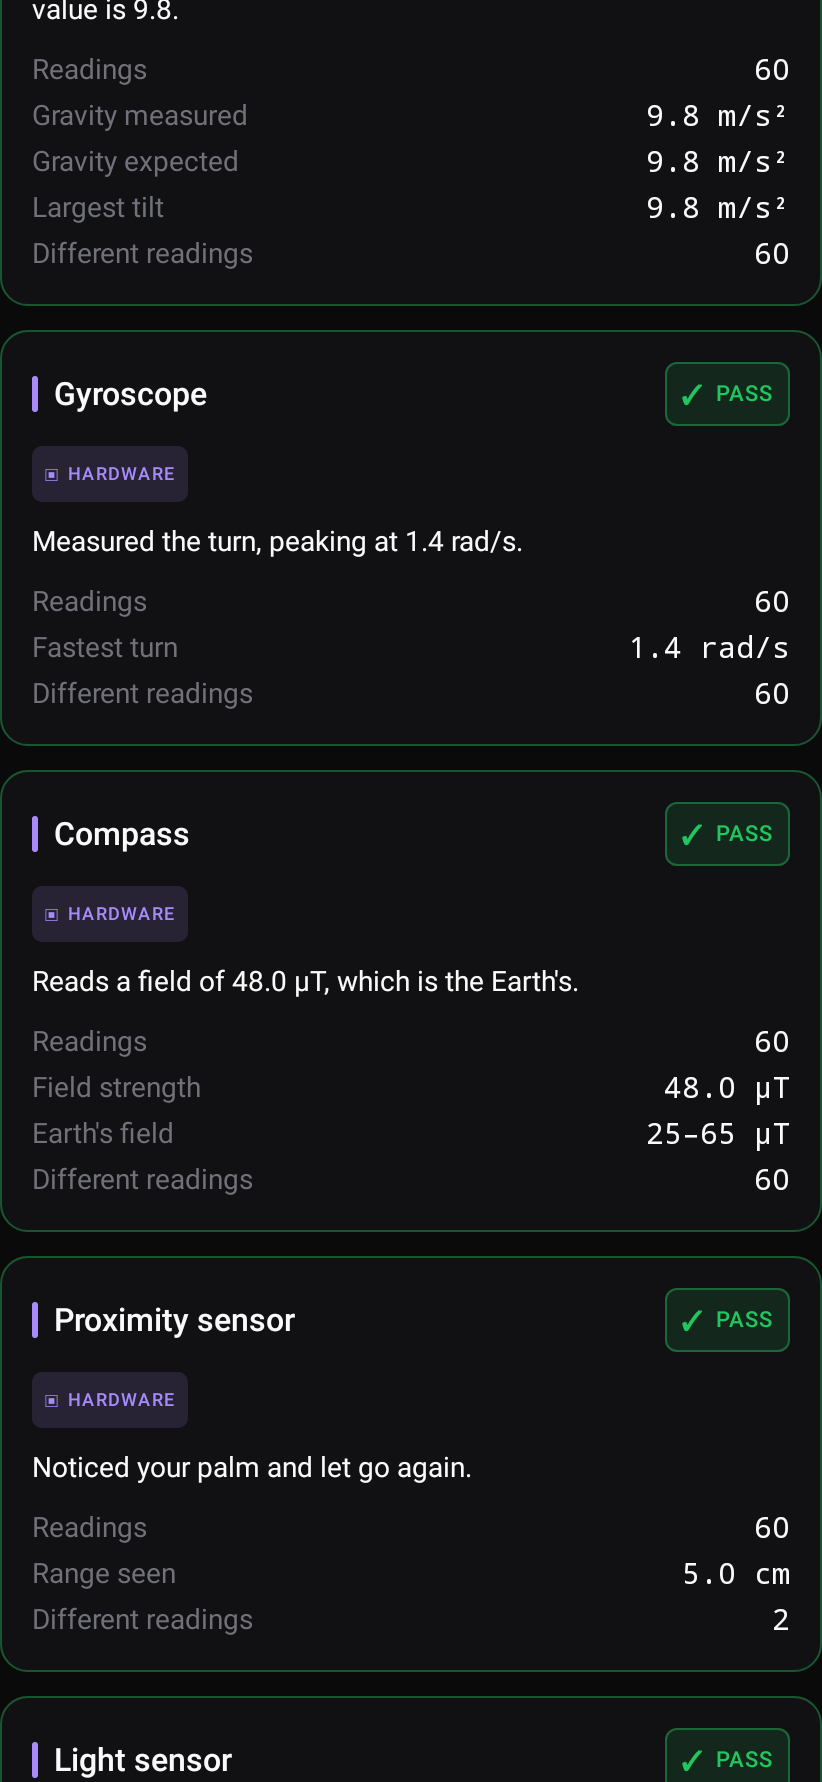
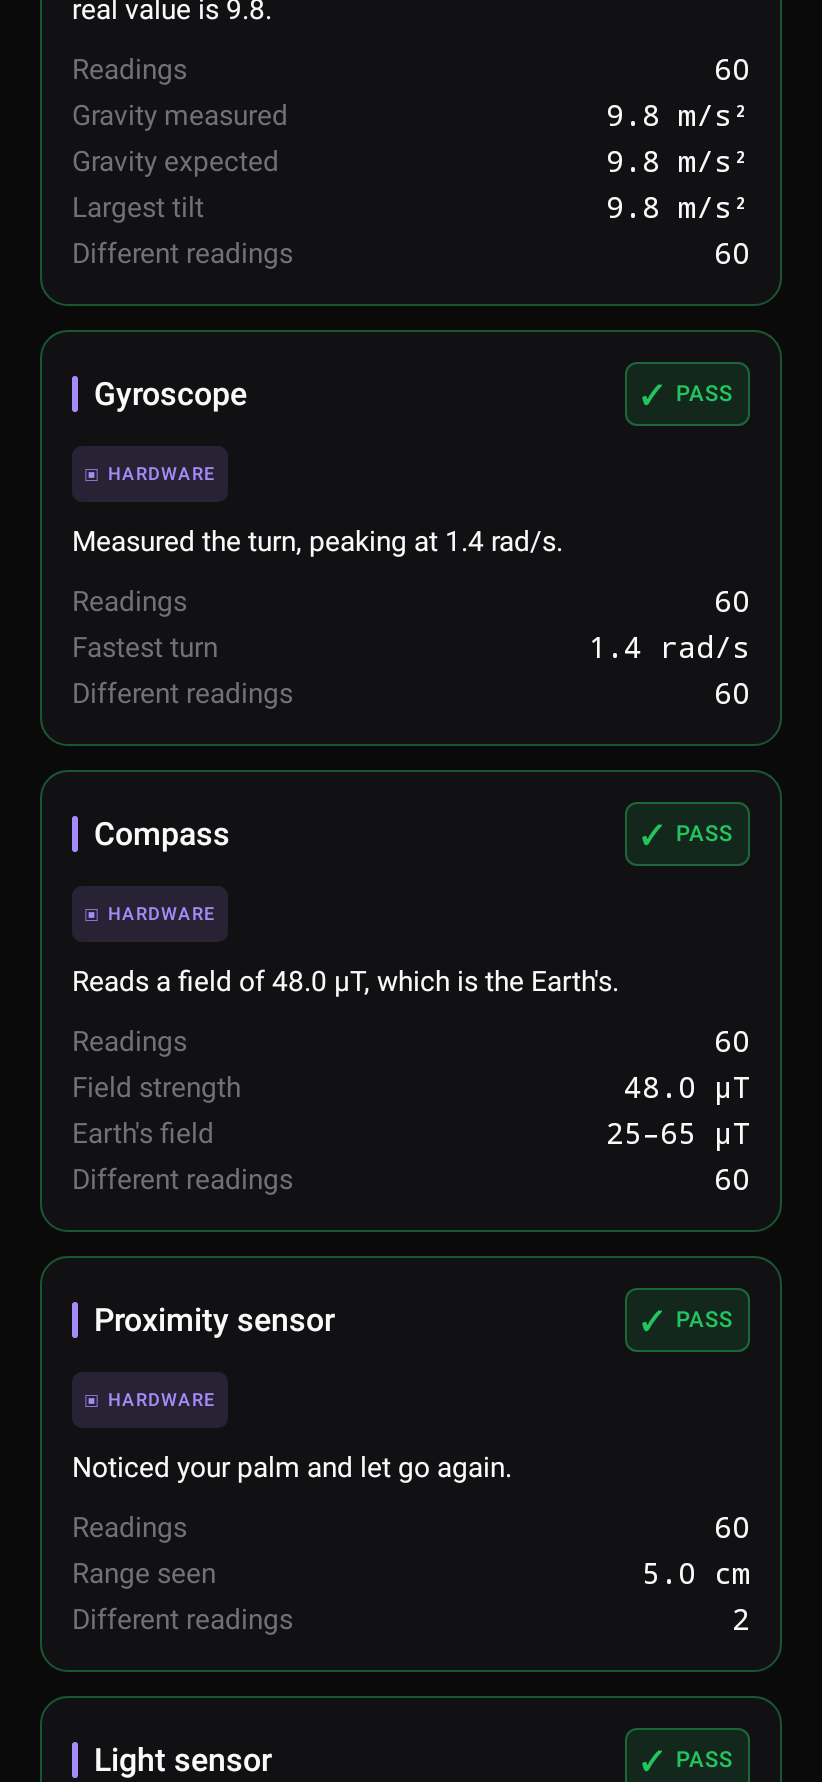
Centre the gesture screens, and split the two kinds of cannot-tell
Three things the renders showed.

The tilt and cover screens hold one instruction and two meters, and had them
huddled at the top above two thirds of empty black. They are centred now and do
not scroll, because the buyer is holding the phone up and looking at the middle
of it.

'Not exercised' was covering two different situations with one sentence: the
buyer not performing the gesture, and the app failing to subscribe to the sensor
at all. Telling someone to tilt their phone again when the fault was ours is
blaming them for our bug, so the second is now its own state with its own words.

And the accelerometer's cannot-tell admits what it does know. Lying still and
reading 9.8 m/s proves its calibration even when nobody tilted it, and the old
line threw that away — while reading word for word identical to the gyroscope
card stacked directly beneath it.

diff --git a/checks/sensors/src/main/kotlin/com/phoneproof/checks/sensors/SensorCheck.kt b/checks/sensors/src/main/kotlin/com/phoneproof/checks/sensors/SensorCheck.kt
@@ -36,12 +36,23 @@ object SensorCheck {
                 measurements = measurements,
             )
 
+            SensorState.UNAVAILABLE -> CheckResult(
+                id = idFor(kind),
+                title = title(kind),
+                outcome = CheckOutcome.UNKNOWN,
+                confidence = Confidence.LOW,
+                headline = "This app could not connect to the ${plainName(kind)}. That is a gap in " +
+                    "the report rather than anything known about the phone.",
+                action = "Close the app, open it again and re-run this test.",
+                measurements = measurements,
+            )
+
             SensorState.NOT_EXERCISED -> CheckResult(
                 id = idFor(kind),
                 title = title(kind),
                 outcome = CheckOutcome.UNKNOWN,
                 confidence = Confidence.LOW,
-                headline = notExercisedHeadline(kind),
+                headline = notExercisedHeadline(kind, s),
                 // An action even though nothing is wrong: the buyer can fix this one themselves in
                 // five seconds, and a "can't tell" they could have prevented is worth saying so.
                 action = when (kind) {
@@ -243,13 +254,29 @@ object SensorCheck {
         else -> "Reported a value outside anything physically sensible."
     }
 
-    private fun notExercisedHeadline(kind: SensorKind): String = when (kind) {
-        SensorKind.PROXIMITY, SensorKind.LIGHT ->
-            "Nothing to report: the top of the screen was never covered, so there was nothing for " +
-                "this sensor to react to."
-        else ->
-            "Nothing to report: the phone was not moved far enough for this sensor to have " +
-                "anything to measure."
+    /**
+     * One sentence per sensor, and not one shared sentence.
+     *
+     * The first version used the same line for the accelerometer and the gyroscope, and the render put
+     * the two cards one above the other reading word for word the same — which makes an honest result
+     * look like an unfilled template. Each of these now says what specifically did not happen, and the
+     * accelerometer's admits what it *does* know, because gravity proved its calibration even though
+     * nobody tilted it.
+     */
+    private fun notExercisedHeadline(kind: SensorKind, s: TraceStats): String = when (kind) {
+        SensorKind.ACCELEROMETER ->
+            "It reads gravity correctly at ${oneDecimal(s.magnitudeMean)} m/s², so it is calibrated " +
+                "— but the phone was not tilted far enough to see whether it follows movement."
+        SensorKind.GYROSCOPE ->
+            "The phone was never turned, so there was no rotation for this sensor to have missed."
+        SensorKind.MAGNETOMETER ->
+            "The compass reported nothing worth judging, and the phone was not turned enough to " +
+                "press it."
+        SensorKind.PROXIMITY ->
+            "Your hand never reached the sensor, so it had nothing to detect. The light sensor " +
+                "agrees it stayed light up there."
+        SensorKind.LIGHT ->
+            "The top of the screen never went dark, so this sensor had no change to follow."
     }
 
     private fun measurementsFor(kind: SensorKind, s: TraceStats): List<Measurement> = buildList {

diff --git a/checks/sensors/src/test/kotlin/com/phoneproof/checks/sensors/SensorCheckTest.kt b/checks/sensors/src/test/kotlin/com/phoneproof/checks/sensors/SensorCheckTest.kt
@@ -56,6 +56,62 @@ class SensorCheckTest {
     }
 
     @Test
+    fun a_sensor_the_app_could_not_reach_blames_the_app_and_not_the_phone() {
+        SensorKind.entries.forEach { kind ->
+            val result = resultFor(kind, SensorState.UNAVAILABLE)
+            assertThat(result.outcome).isEqualTo(CheckOutcome.UNKNOWN)
+            assertThat(result.headline).contains("could not connect")
+            assertThat(result.headline).contains("rather than anything known about the phone")
+        }
+    }
+
+    @Test
+    fun the_two_kinds_of_cant_tell_never_read_the_same() {
+        // One is "you did not do the gesture", the other is "we could not connect". Telling a buyer to
+        // tilt the phone again when the app failed to subscribe would be blaming them for our bug.
+        val notDone = resultFor(SensorKind.GYROSCOPE, SensorState.NOT_EXERCISED)
+        val unreachable = resultFor(SensorKind.GYROSCOPE, SensorState.UNAVAILABLE)
+
+        assertThat(notDone.headline).isNotEqualTo(unreachable.headline)
+        assertThat(notDone.action).isNotEqualTo(unreachable.action)
+    }
+
+    @Test
+    fun no_two_sensors_share_a_cant_tell_sentence() {
+        // Two cards stacked with word-for-word the same line makes an honest result look like an
+        // unfilled template, which is what the first render of this screen showed.
+        val headlines = SensorKind.entries.map {
+            resultFor(it, SensorState.NOT_EXERCISED).headline
+        }
+        assertThat(headlines).containsNoDuplicates()
+    }
+
+    @Test
+    fun an_untilted_accelerometer_still_admits_that_gravity_checks_out() {
+        // It proved its calibration by lying still and reading 9.8. Saying only "cannot tell" would
+        // throw away the one thing this sensor can establish without being waved about.
+        val result = SensorCheck.results(
+            SensorLiveness.analyse(
+                listOf(
+                    SensorTrace(
+                        SensorKind.ACCELEROMETER,
+                        List(60) { SensorReading(0f, 0f, 9.81f) },
+                    ),
+                    SensorTrace(
+                        SensorKind.GYROSCOPE,
+                        List(60) { SensorReading(0.001f, 0.001f, 0.001f) },
+                    ),
+                ),
+                setOf(SensorKind.ACCELEROMETER),
+            ),
+        ).single()
+
+        assertThat(result.outcome).isEqualTo(CheckOutcome.UNKNOWN)
+        assertThat(result.headline).contains("reads gravity correctly at 9.8")
+        assertThat(result.headline).contains("not tilted far enough")
+    }
+
+    @Test
     fun a_cant_tell_still_says_how_the_buyer_could_get_an_answer() {
         // Unusual for an UNKNOWN to carry an action, and deliberate: this is the one kind of "cannot
         // tell" in the whole app that the buyer can clear themselves in five seconds.

diff --git a/feature/sensortest/src/main/kotlin/com/phoneproof/feature/sensortest/SensorTestScreen.kt b/feature/sensortest/src/main/kotlin/com/phoneproof/feature/sensortest/SensorTestScreen.kt
@@ -55,6 +55,15 @@ fun SensorTestScreen(
     onRestart: () -> Unit,
     modifier: Modifier = Modifier,
 ) {
+    // While a gesture is running the screen holds one instruction and two meters and nothing else, so
+    // it is centred and does not scroll: the buyer is tilting the phone and watching the middle of it,
+    // and the first render had all of that huddled at the top above two thirds of empty black.
+    val duringGesture = state.phase == SensorPhase.MOTION || state.phase == SensorPhase.COVER
+
+    // Remembered unconditionally. Creating it inside the branch would mean calling a composable in
+    // some compositions and not others, which is not allowed and would crash on the phase change.
+    val scrollState = rememberScrollState()
+
     Column(
         modifier = modifier
             .fillMaxSize()
@@ -64,17 +73,22 @@ fun SensorTestScreen(
             // route and the rendered meters ran off the right-hand edge with their labels clipped —
             // a layout bug that only existed in the review, which is the worst place for one to hide.
             .windowInsetsPadding(WindowInsets.safeDrawing)
-            .verticalScroll(rememberScrollState())
+            .then(if (duringGesture) Modifier else Modifier.verticalScroll(scrollState))
             .padding(horizontal = 20.dp),
-        verticalArrangement = Arrangement.spacedBy(12.dp),
+        verticalArrangement = if (duringGesture) {
+            Arrangement.spacedBy(12.dp, Alignment.CenterVertically)
+        } else {
+            Arrangement.spacedBy(12.dp)
+        },
     ) {
-        Spacer(Modifier.height(10.dp))
-
-        Text(
-            text = "Sensors",
-            style = MaterialTheme.typography.titleLarge,
-            color = PhoneProofTheme.colors.textPrimary,
-        )
+        if (!duringGesture) {
+            Spacer(Modifier.height(10.dp))
+            Text(
+                text = "Sensors",
+                style = MaterialTheme.typography.titleLarge,
+                color = PhoneProofTheme.colors.textPrimary,
+            )
+        }
 
         when (state.phase) {
             SensorPhase.READY -> Ready(state, onStart)
@@ -83,7 +97,7 @@ fun SensorTestScreen(
             SensorPhase.DONE -> Done(state, onRestart)
         }
 
-        Spacer(Modifier.height(28.dp))
+        if (!duringGesture) Spacer(Modifier.height(28.dp))
     }
 }
 

diff --git a/checks/sensors/src/main/kotlin/com/phoneproof/checks/sensors/SensorLiveness.kt b/checks/sensors/src/main/kotlin/com/phoneproof/checks/sensors/SensorLiveness.kt
@@ -29,6 +29,15 @@ enum class SensorState {
      * proximity sensor is broken when the buyer simply never covered it.
      */
     NOT_EXERCISED,
+
+    /**
+     * The app never managed to subscribe, so the hardware was never on trial.
+     *
+     * Kept apart from [NOT_EXERCISED] because the two need opposite sentences. "The phone was not moved
+     * far enough" is a fair thing to tell a buyer who did not move it, and a nonsense thing to tell one
+     * whose phone the app failed to connect to. This one is our failure, and says so.
+     */
+    UNAVAILABLE,
 }
 
 data class SensorFinding(
@@ -130,7 +139,7 @@ object SensorLiveness {
                 kind = kind,
                 stats = s,
                 state = when {
-                    !registered.getValue(kind) -> SensorState.NOT_EXERCISED
+                    !registered.getValue(kind) -> SensorState.UNAVAILABLE
                     s.count == 0 -> SensorState.SILENT
                     else -> when (kind) {
                         SensorKind.ACCELEROMETER -> accelerometerState(s, rotated)

diff --git a/checks/sensors/src/test/kotlin/com/phoneproof/checks/sensors/SensorLivenessTest.kt b/checks/sensors/src/test/kotlin/com/phoneproof/checks/sensors/SensorLivenessTest.kt
@@ -97,7 +97,17 @@ class SensorLivenessTest {
             unsubscribed(SensorKind.PROXIMITY),
         )
 
-        assertThat(findings.stateOf(SensorKind.PROXIMITY)).isEqualTo(SensorState.NOT_EXERCISED)
+        // Its own state, not merely "not exercised". The buyer did everything asked of them here, so a
+        // line telling them to cover the phone again would be blaming them for our failure.
+        assertThat(findings.stateOf(SensorKind.PROXIMITY)).isEqualTo(SensorState.UNAVAILABLE)
+    }
+
+    @Test
+    fun a_sensor_the_phone_claims_but_never_sends_a_trace_for_is_also_unavailable() {
+        val findings = analyse(accelerometerTilted(), gyroscopeTurning())
+
+        // Nothing arrived about the compass at all, which is not the same as the compass being silent.
+        assertThat(findings.stateOf(SensorKind.MAGNETOMETER)).isEqualTo(SensorState.UNAVAILABLE)
     }
 
     // ------------------------------------------------------------------ real faults

diff --git a/feature/home/src/main/kotlin/com/phoneproof/feature/home/HomeCatalogue.kt b/feature/home/src/main/kotlin/com/phoneproof/feature/home/HomeCatalogue.kt
@@ -30,7 +30,9 @@ val HomeCatalogue: List<HomeCheckEntry> = listOf(
     HomeCheckEntry(
         route = "scan",
         title = "Instant scan",
-        subtitle = "Software, storage, sensors and screen — no waiting",
+        // "sensors" removed: the scan only reads the parts list, and now that a test actually
+        // exercises them, a subtitle claiming both would be taking credit for the other screen's work.
+        subtitle = "Software, storage, battery and screen — no waiting",
     ),
     HomeCheckEntry(
         route = "lock",
